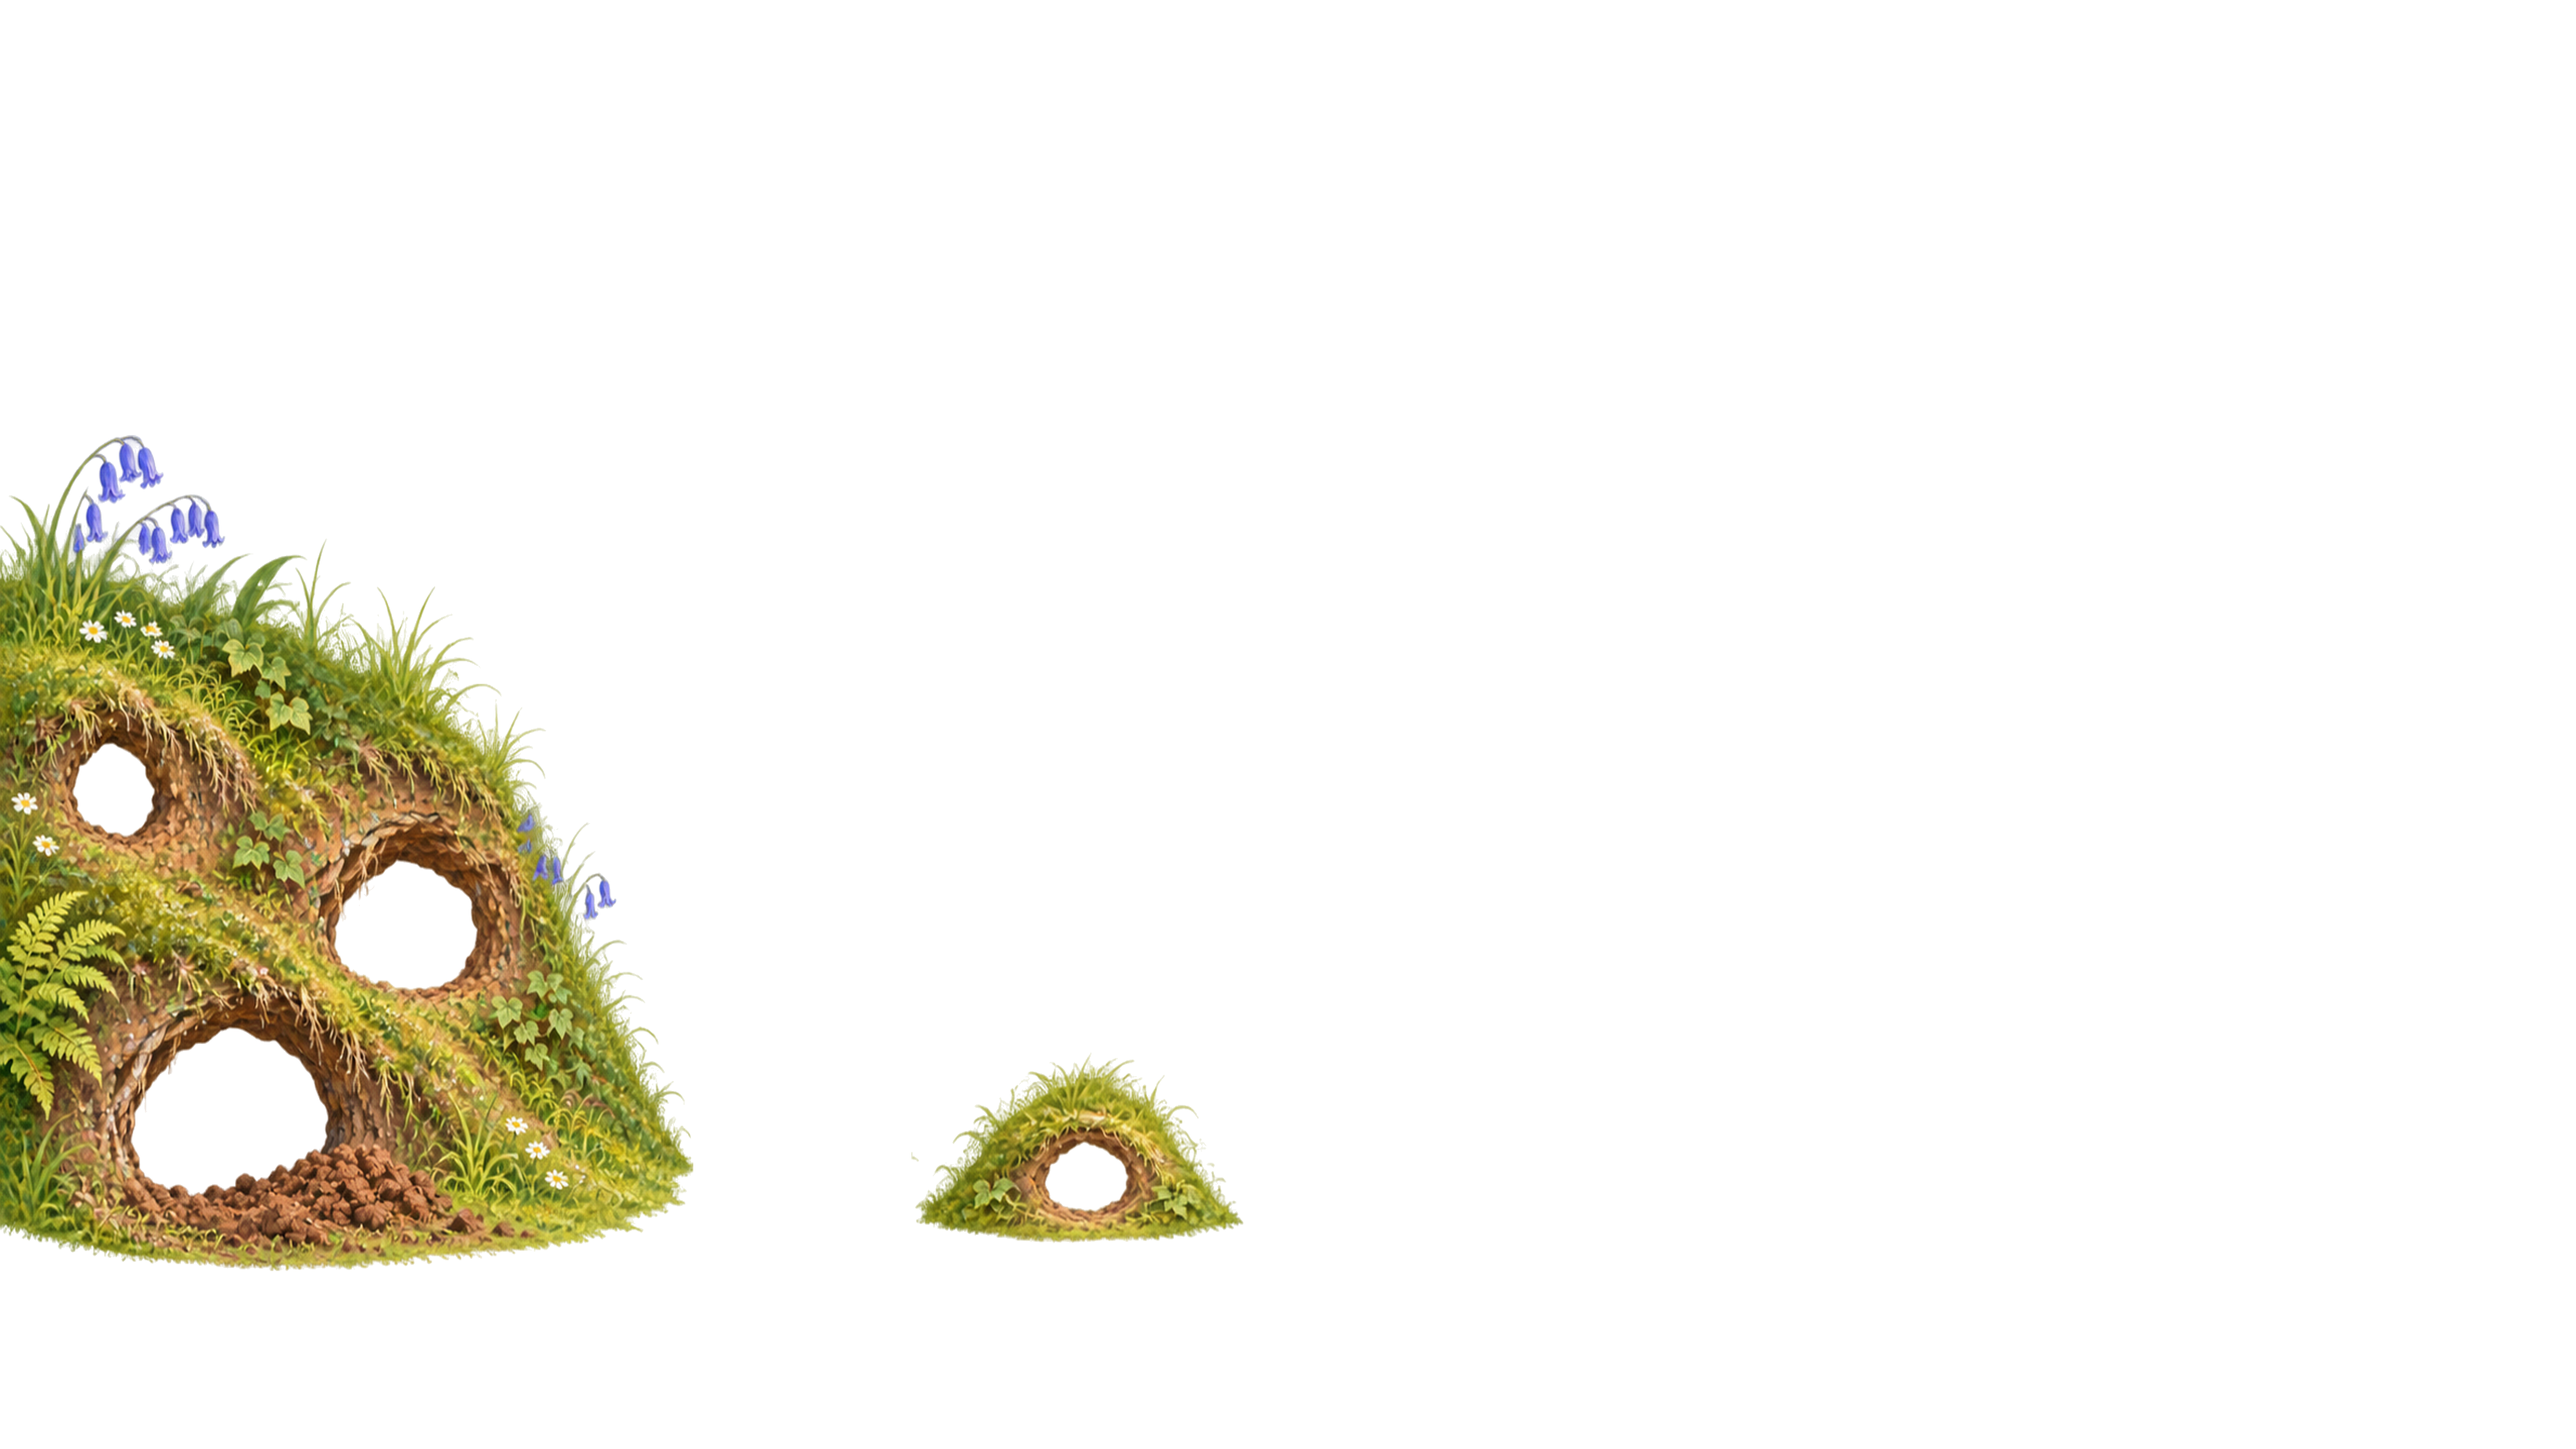
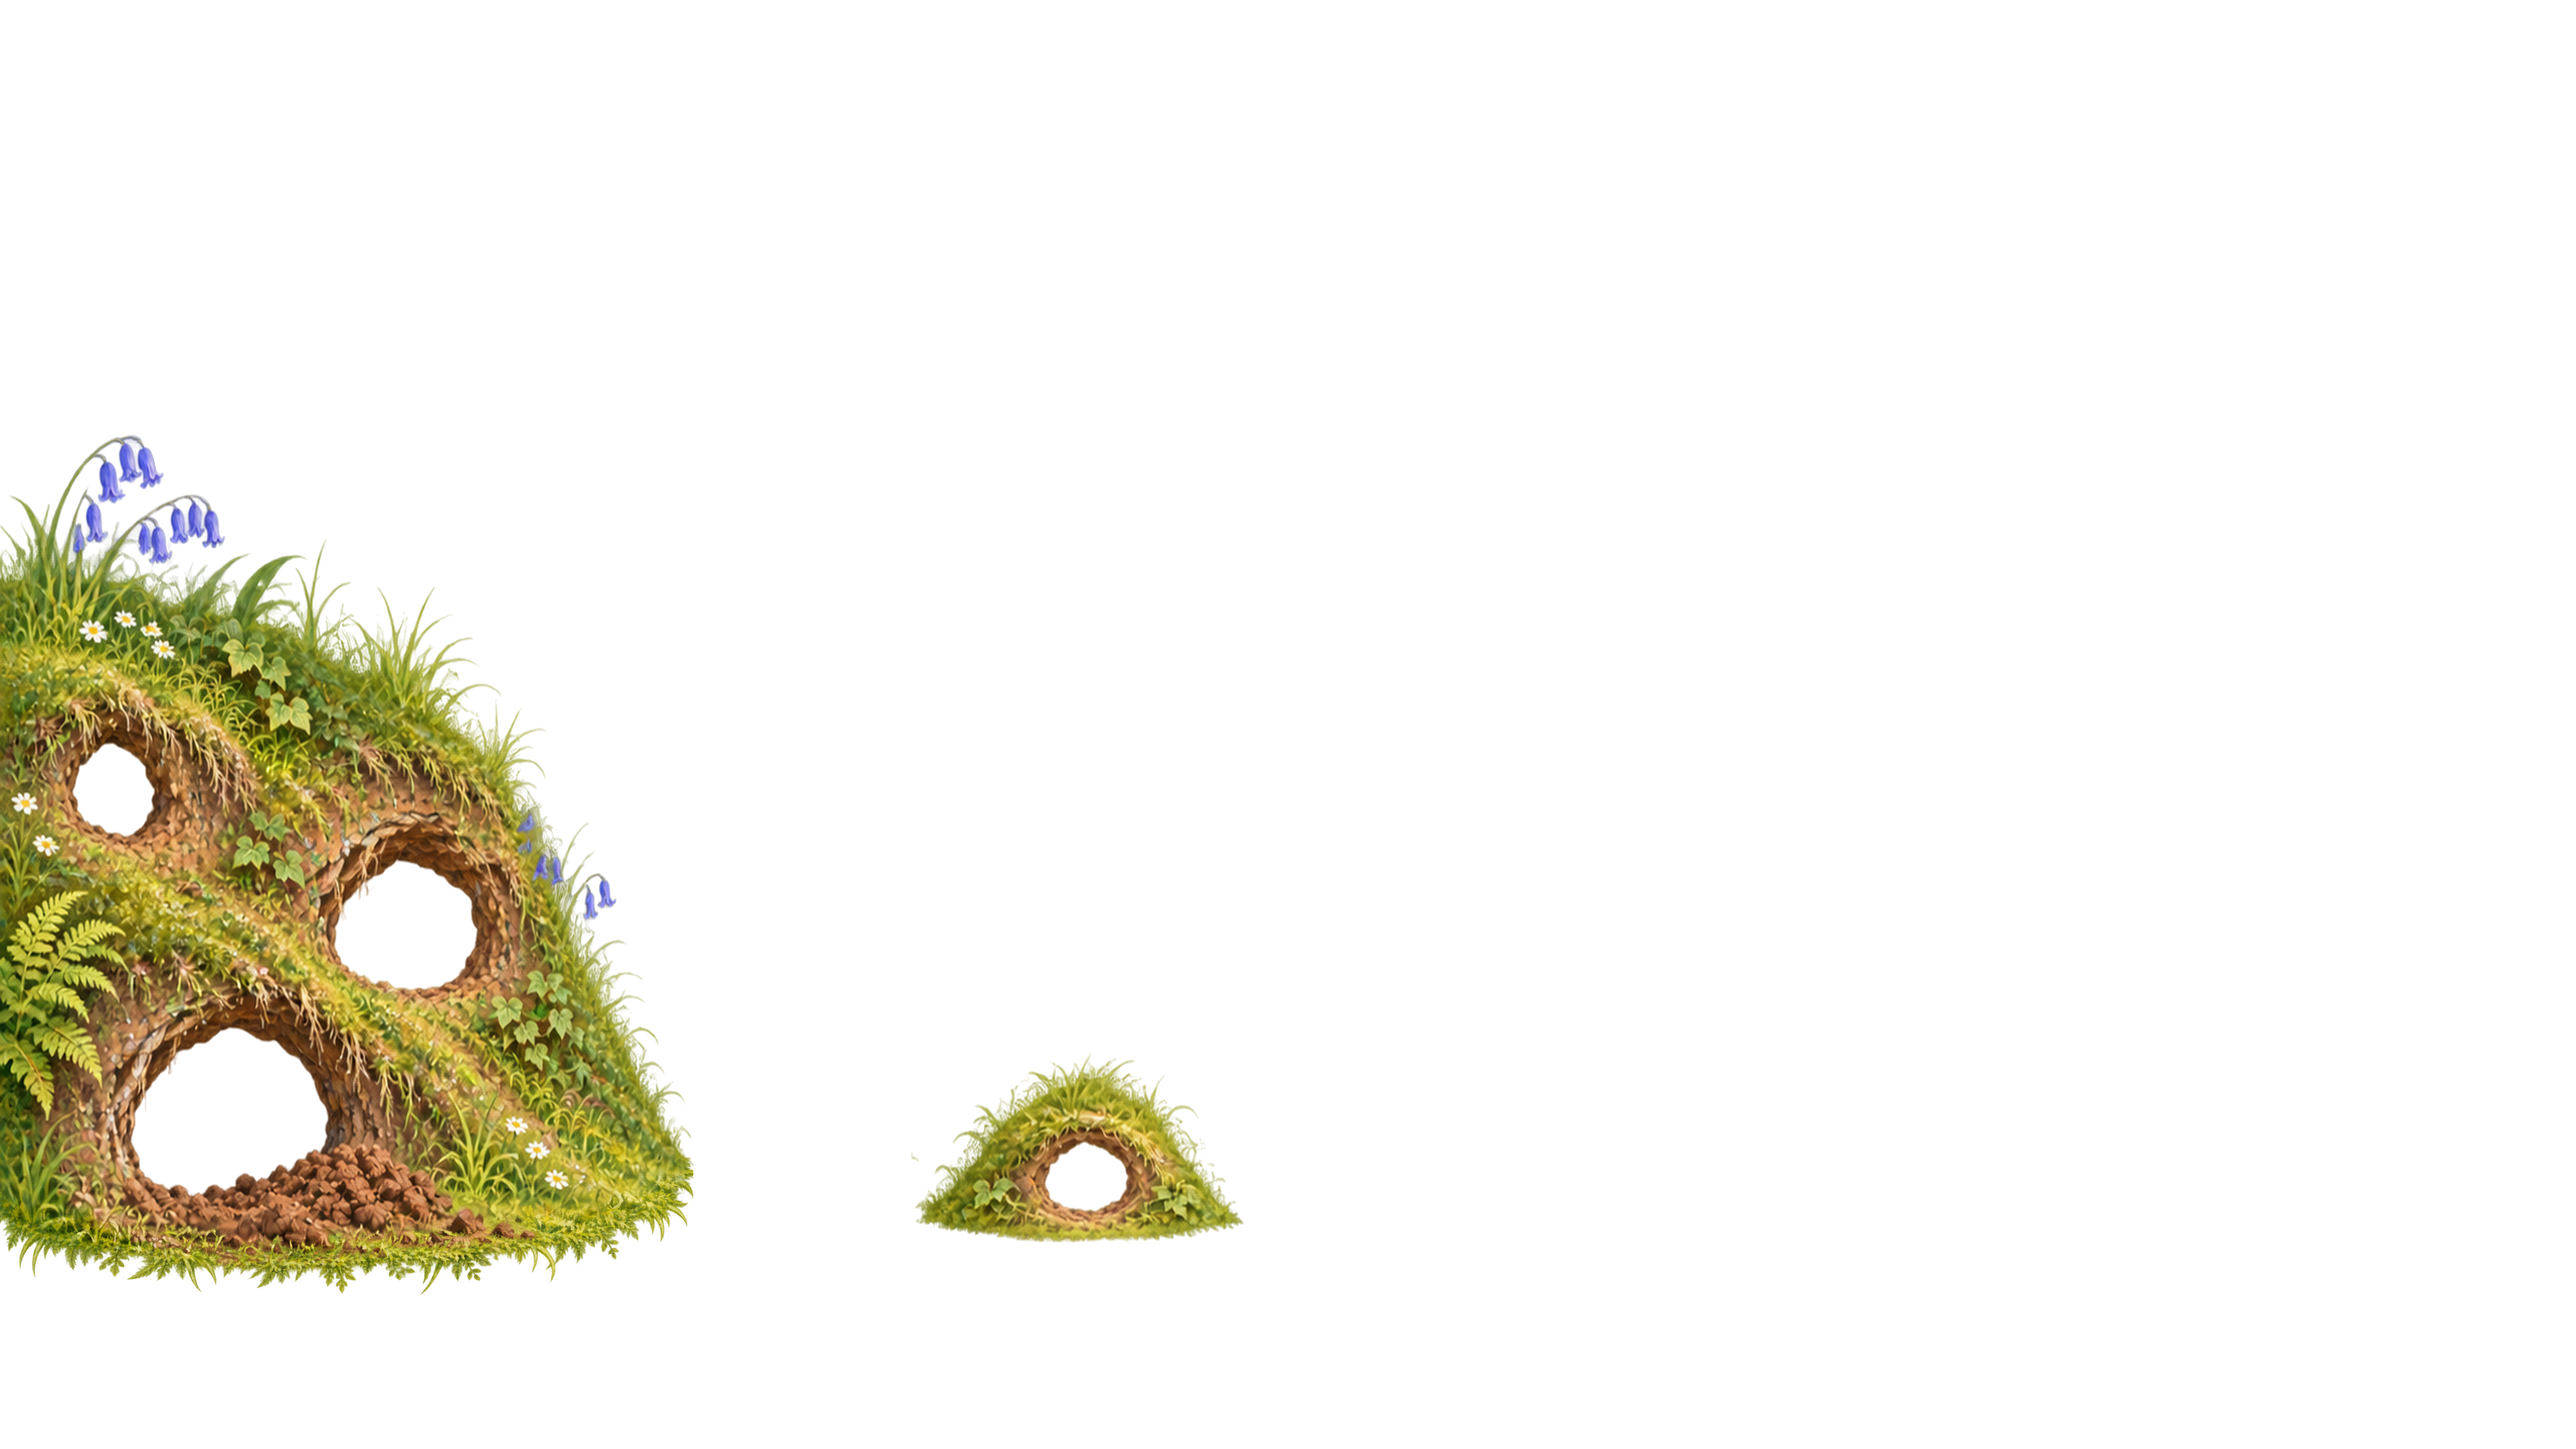
Landing layers: fix bottom-left seams (sliced primrose clump, hard bank base)

Changed region(s): [[0.0, 0.8013, 0.2799, 0.8937]]

diff --git a/docs/landing-art/2026-11-23-layers/FIX-3.md b/docs/landing-art/2026-11-23-layers/FIX-3.md
@@ -1,0 +1,15 @@
+# Fix 3 — bottom-left corner seams (23 November 2026)
+
+Owner spotted layer seams in the bottom-left corner (about x 0–0.30 W, y 0.72–1.0 H).
+
+1. `foreground.png`: the bottom-left primrose/clover clump is cut off by a STRAIGHT HORIZONTAL LINE across
+   its top (about y 0.84 H, x 0.03–0.15 W); the top primroses are sliced in half. Repaint that clump with
+   a natural, irregular top: whole primrose flowers, leaves and grass tips against transparency, no
+   straight edge anywhere.
+2. `bank.png`: the bank's bottom edge ends in a flat, hard-edged lip on the meadow. Make the base melt into
+   the meadow: grass blades and soft tufts overlapping downward, feathered alpha, no visible line.
+
+Change nothing else in either layer, nor any other layer. Clean alpha, no fringe. Check on black and white.
+Redo preview-stacked.png, preview-phone.png and holes.png (hole centres unchanged). Also save
+`corner-check.png`: the stacked preview's bottom-left corner (x 0–0.35 W, y 0.65–1.0 H) at full size.
+Report when done.
